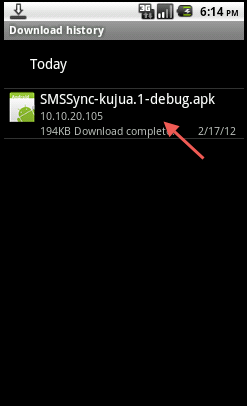
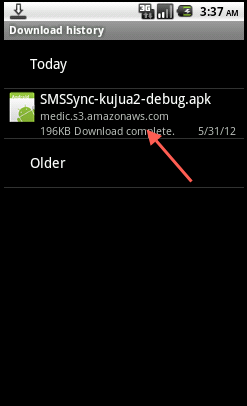
updated install doc with latest kujua/smssync screens and instructions.
also added a generate user doc tool to the setup process.

diff --git a/lib/shows.js b/lib/shows.js
@@ -4,6 +4,7 @@
 
 var querystring = require('querystring'),
     db = require('db'),
+    sha1 = require('sha1'),
     events = require('duality/events'),
     dutils = require('duality/utils'),
     smsforms = require('views/lib/smsforms'),
@@ -207,6 +208,54 @@ var renderDoc = function(data, textStatus, jqXHR) {
             _el.wrap($('<div/>').addClass('scroll'));
         }
     });
+
+    var createUserDoc = function(username, password, properties, callback) {
+        var doc = {};
+        doc._id = 'org.couchdb.user:' + username;
+        doc.name = username;
+        doc.type = 'user';
+
+        _.extend(doc, properties);
+
+        db.newUUID(100, function (err, uuid) {
+            if (err) {
+                return callback(err);
+            }
+            doc.salt = uuid;
+            doc.password_sha = sha1.hex(password + doc.salt);
+            callback(undefined, doc); 
+        });
+    };
+
+    $('#createuser').submit(function(ev) {
+        ev.preventDefault();
+        ev.stopPropagation();
+        var form = $(this),
+            error = false,
+            username = form.find('[name=username]'),
+            password = form.find('[name=password]'),
+            props = {roles: [], locale: 'en', kujua_facility: ''};
+        if (_.isEmpty(username.val())) {
+            username.parents('.control-group').addClass('error');
+            error = true;
+        };
+        if (_.isEmpty(password.val())) {
+            password.parents('.control-group').addClass('error');
+            error = true;
+        };
+        if (!error) {
+            form.find('.control-group').removeClass('error');
+            createUserDoc(username.val(), password.val(), props, function(err, doc) {
+                if (err) {
+                    logger.error(err);
+                    alert(err);
+                } else {
+                    $('#createuser-output').html(JSON.stringify(doc, null, 4)).show();
+                }
+            });
+        }
+    });
+
 };
 
 exports.docs = function (doc, req) {

diff --git a/docs/install/index.md b/docs/install/index.md
@@ -25,28 +25,49 @@ easy to install on Windows, Linux or Mac OSX.
 ### Step 2: Create Admin User
 
 The first thing you should do with any CouchDB database is setup an admin
-account if it does not have one.  You will need to think of a secure password,
-it should contain numbers, lower and uppercase letters and special characters. 
+account if it does not have one.  You will need to think of a decent password.
+This account has full privileges on the database.
 
 * Navigate your browser to Futon, the CouchDB admin tool, by default it can be found at <http://localhost:5984/_utils/>.
 * Click the **Fix this** link in the bottom right to show the admin create screen.
-* Enter the username **root** and a secure password.
+* Enter the username **root** and a your password.
 * Click **Create**
 * Save the password somewhere so you remember it.
 
 ![Fix this](img/fix_this.png)
 
-
 ### Step 3: Require Valid User
 
-Additionally we recommend you restrict all access to your database to authenticated users.  Change the `require_valid_user` default configuration.
+We recommend you restrict all access to your database to authenticated users.
+Change the `require_valid_user` configuration setting.
 
 * Click **Configuration** in the right column in Futon.
-* Click the `false` value in the `couch_httpd_auth` section.  
+* Click the `false` value in the **couch\_httpd\_auth** section.  
 * Replace the `false` text with `true` and press the enter key.
 
 ![Require Valid User](img/require_valid_user.png)
 ![Set Require Valid User True](img/require_valid_user_true.png)
+
+### Step 4: Create Additional Users
+
+We do not want everyone using the root account so lets create some other less
+privileged accounts. Typically we create at least one for the gateway to use.
+Once the user document is generated edit the
+[_users](http://localhost:5984/_utils/database.html?_users) database to create
+it. 
+
+<form class="form-inline" id="createuser">
+<span class="control-group">
+<input type="text" value="gateway" name="username" class="span2">
+</span>
+<span class="control-group">
+<input type="text" placeholder="password" name="password" class="span2">
+</span>
+<button type="submit" class="btn">Generate</button>
+</form>
+<pre id="createuser-output" class="hide"/>
+
+*Note* remember to keep your account usernames and passwords stored somewhere safe.
 
 ## Install Kujua
 
@@ -62,19 +83,17 @@ from another instance of CouchDB.
 
 On the Replicator screen complete the following fields and their corresponding values:
 
-* Replicate Changes from: **Remote Database** ```https://medic.iriscouch.com/kujua-base```
-* to: **Local Database** ```kujua```\*
+* Replicate Changes from: **Remote Database** `https://medic.iriscouch.com/kujua-base`
+* to: **Local Database** `kujua`
 * Click the **Replicate** button
 * After you click replicate verify your screen updates with the replication session data:
 
 ![Replicator Success](img/replicator_success.png)
 
 * Verify you can navigate to the home screen:
-<http://127.0.0.1:5984/kujua/_design/kujua-base/_rewrite/>, you should see the
-home screen:
+<http://127.0.0.1:5984/kujua/_design/kujua-base/_rewrite/>, you should see the following:
 
 ![Kujua](img/kujua_base_localhost.png)
-
 
 ## Verify Network Configuration
 
@@ -83,7 +102,19 @@ specifically the network address that CouchDB is listening on.  In this guide
 we assume there are two devices on **the same IP network**, this is typically a
 laptop and phone on a secured LAN via wireless or USB tethering.  
 
-### Step 1: Verify your IP address
+### Step 1: Listen to all networks
+
+Typically we want to bind CouchDB to all available network interfaces on the
+machine.  This allows CouchDB to communicate on the internet or your local
+network.  For security CouchDB is shipped to only listen to localhost, so only
+the machine it is running on can access it.
+
+* Navigate to the **Configuration** section in Futon and  find the **httpd** section
+* Change `bind_address` to `0.0.0.0`
+
+![Bind to all networks](img/bindaddress.png)
+
+### Step 2: Verify your IP address
 
 On Windows the easiest way to find your IP address is:
 
@@ -99,23 +130,26 @@ This should provide you with an IP address on the local network.  We assume you
 know enough about your system to find this piece of common information if not
 on Windows.
 
-### Step 2: Verify CouchDB is listening
+### Step 3: Verify CouchDB is listening
 
 Now to verify CouchDB is listening on a network address you can use your web
 browser.  
 
 * Type the IP address into the browser address bar and **append the following port number** prefaced with a colon ```:5984```. In this example the complete address is ```http://10.10.20.105:5984```.
+* You will be prompted for a password again since you are now using a different URL.
+* Enter the root username and password.
 * Verify you see a status message from CouchDB.
 
 ![CouchDB heartbeat](img/test_network_address.png)
 
-### Step 3: Verify the Export tool
+### Step 4: Verify Kujua is listening
 
 * Now append the following path to it:
   ```/kujua/_design/kujua-base/_rewrite/```.<br /> In this example we use 
   ```http://10.10.20.105:5984/kujua/_design/kujua-base/_rewrite/```.
-* Verify that the Export app responds with a screen similiar to the one below.
-* Now **copy your local network URL somewhere**, possibly in the clipboard or notepad.  You will need it for the next steps.
+* Verify that Kujua responds with a similiar screen (there will be some difference between versions) to the one below.
+* Now **copy and paste your local network URL somewhere**, possibly in the
+clipboard or notepad.  You will need it when you configure the Gateway Sync URL soon.
 
 ![Verify Export Tool](img/verify_export.png)
 
@@ -134,8 +168,8 @@ Ushahidi](http://smssync.ushahidi.com/) as the gateway; your device needs to run
 ### Step 2: Download SMSSync to Device
 
 
-* Copy this link destination: [SMSSync 1.1.9-kujua.2](gateway/SMSSync-kujua2-debug.apk)\*
-* Send the gateway download URL to the device either through SMS, email or other 
+* Copy this link address: [SMSSync 1.1.9-kujua.2](https://medic.s3.amazonaws.com/downloads/gateway/SMSSync-kujua2-debug.apk)\*
+* Send the URL to the device either through SMS, email or other 
 means, then open it in your Android browser.  You can type it manually into the
 address bar too.
 * Choose **Accept** when Android prompts you to download.  The file is approximately 200KB and should download to your SD Card pretty quickly.
@@ -148,7 +182,7 @@ address bar too.
 [md5](gateway/SMSSync-kujua2-debug.apk.md5),
 [sha](gateway/SMSSync-kujua2-debug.apk.sha)
 
-\* We also maintain a copy on the web: [SMSSync 1.1.9-kujua.2](https://medic.s3.amazonaws.com/downloads/gateway/SMSSync-kujua2-debug.apk)
+*Note* We also include a local copy with Kujua that is available locally in case you do not have internet access at the time of install. [SMSSync 1.1.9-kujua.2](gateway/SMSSync-kujua2-debug.apk)
 
 ### Step 3: Install SMSSync on Device
 
@@ -175,21 +209,21 @@ address bar too.
 
 Now configure SMSSync with the URL to our Export application:
 
-* Launch SMSSync 
-* Edit Settings
+* Launch SMSSync and Edit Settings
 * Choose **Enter the Sync URL** option
-* Enter the local network URL you discovered in the Verify Network steps above and **append one more part**: `add`.  Complete example: `http://10.10.20.105:5984/kujua/_design/kujua-base/_rewrite/add`.
+* Enter your gateway username and password similar to this `gateway:secret@`, so it is separated by a colon and ending with the at symbol.
+* Enter the local network URL you discovered in the Verify Network steps above and **append one more part**: `add`.  Complete example: `http://gateway:secret@10.10.20.105:5984/kujua/_design/kujua-base/_rewrite/add`.
 * Choose **OK**
 
-![Edit Settings](img/smssync_settings.png)
 ![Configure URL](img/smssync_config.png)
+![Input URL](img/smssync_config_user.png)
 ![Input URL](img/smssync_config_url.png)
 
 ### Step 2: Configure a few more options
 
-* **Start the SMS gateway**.  You will see a status icon in the notifications bar that tells you it is running.
+* Choose **Start the SMS gateway**.  You will see a status icon in the notifications bar that tells you it is running.
 * Scroll down a bit further and set **Get Reply From Server** so the person submitting the report gets a messaging confirming it was received.
-* Finally and set **Enable Task Checking** so the gateway processes outgoing messages.
+* Finally set **Enable Task Checking** so the gateway processes outgoing messages.
 
 ![Start](img/smssync_start.png)
 ![Get Reply From Server](img/smssync_getreply.png)
@@ -204,13 +238,11 @@ locale, you can append the `locale` query parameter to the sync URL above.  The
 default locale is english or `en` and we also support `fr` at the moment.  
 
 For example, to get responses from Kujua in french use
-`http://10.10.20.105:5984/kujua/_design/kujua-base/_rewrite/add?locale=fr`.
+`http://gateway:secret@10.10.20.105:5984/kujua/_design/kujua-base/_rewrite/add?locale=fr`.
 
 ## Test the Pipes
 
-Now the setup of the Gateway and Export tools should all be complete.  Let's
-see the fruits of our labor in action; this should also help us understand how
-it all fits together.
+Now the setup should be complete and we can see the fruits of our labor.
 
 ### Step 1: Sync Tests
 
@@ -236,14 +268,14 @@ saved to CouchDB.
 
 ![Zikomo!](img/zikomo.png)
 
-*Note*, our version of SMSSync won't send SMS responses to itself because this can
+*Note*, our version of SMSSync does not send SMS responses to itself because this can
 cause an endless loop of error responses to and from the gateway.
 
 ### Step 3: View Report Data
 
-Now lets see if we can get our data out of the database and in a useful format; the Export tool does this.
+Now lets see if we can get our data out of the database and in a useful format.
 
-* Browse to the export tool
+* Browse to the Downloads screen
 * Choose the download format your prefer
 * Choose the **PSMS: Download** button and a file should download to your computer.
 
